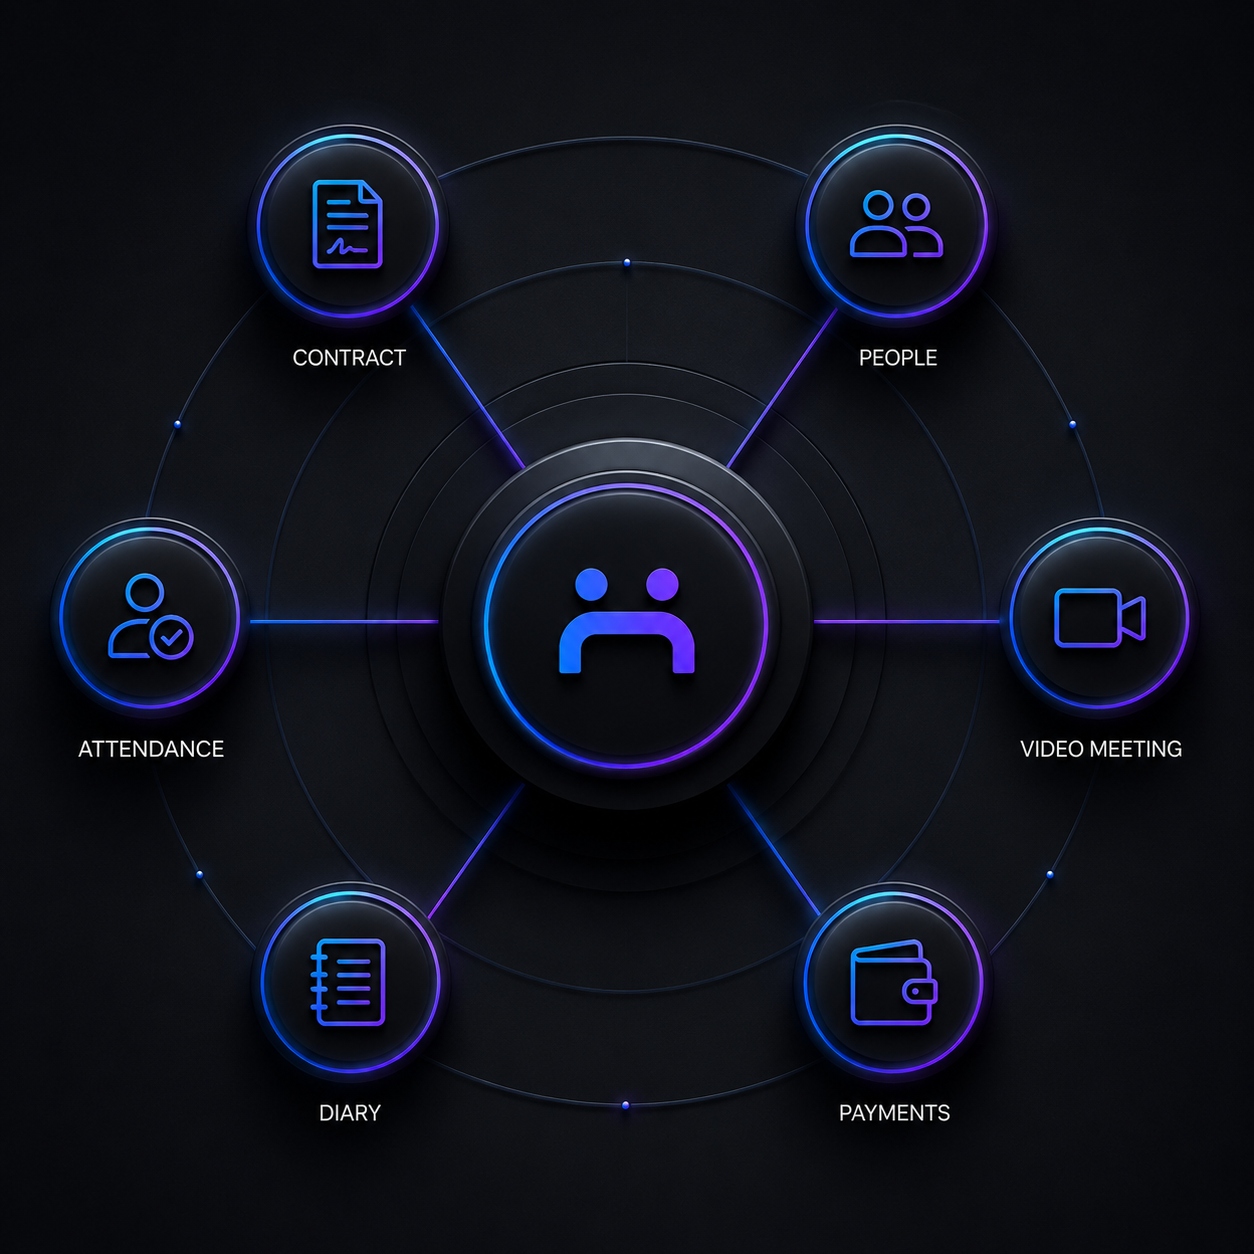
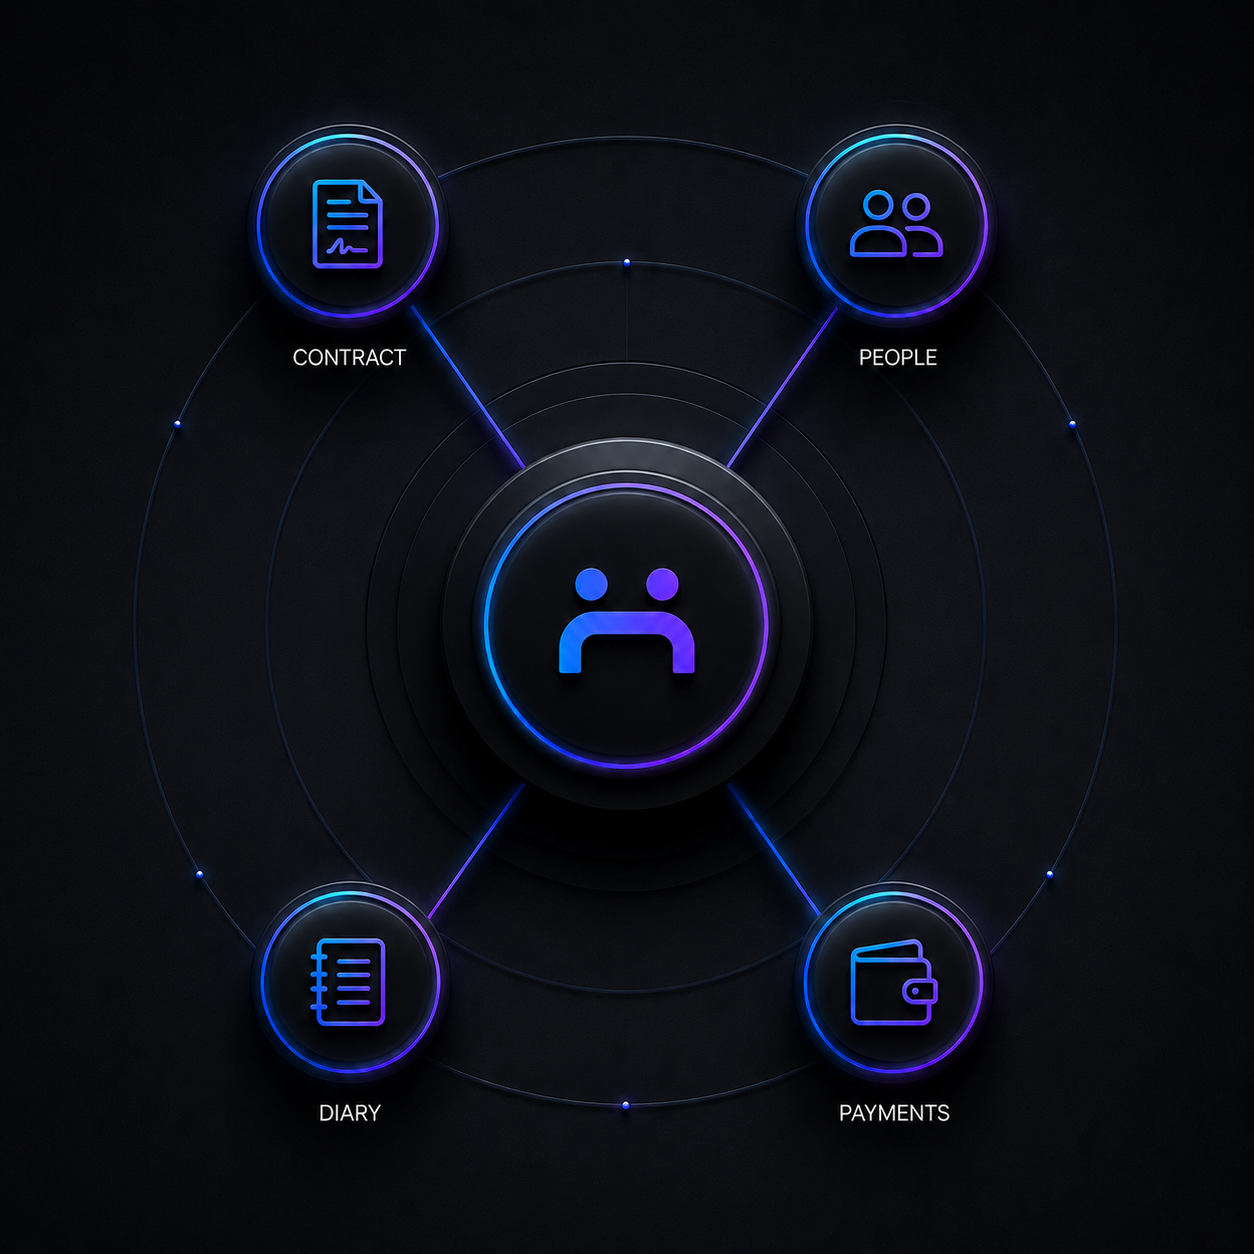
fixed changes foroctnatc suprot

diff --git a/src/app/shared/pages/contact-support/contact-support.component.ts b/src/app/shared/pages/contact-support/contact-support.component.ts
@@ -74,8 +74,10 @@ ngOnInit(): void {
 
   if (role === 'client') {
     this.bucketKey = BucketKey.ClientData;
+    this.currentUserRole.set('client');
   } else if (role === 'freelancer') {
     this.bucketKey = BucketKey.FreelancerData;
+    this.currentUserRole.set('freelancer');
   } else {
     throw new Error('Unsupported role for support ticket uploads');
   }
@@ -160,23 +162,12 @@ getStatusClass(status: string): string {
       label: 'Interview Phase',
       icon: 'bi-people-fill',
       description: 'Issues with schedule sync, expired meeting rooms, or chat linkages.',
+      applicableRoles: ['client', 'freelancer'],
       subcategories: [
-        {
-          label: 'Virtual interview room connection issue',
-          value: 'room-connection',
-        },
-        {
-          label: 'Schedule synchronization mismatch',
-          value: 'schedule-mismatch',
-        },
-        {
-          label: 'Client/Freelancer failed to attend',
-          value: 'no-show',
-        },
-        {
-          label: 'Interview chat link expired',
-          value: 'chat-expired',
-        },
+        { label: 'Virtual interview room connection issue', value: 'room-connection', applicableRoles: ['client', 'freelancer'] },
+        { label: 'Schedule synchronization mismatch', value: 'schedule-mismatch', applicableRoles: ['client', 'freelancer'] },
+        { label: 'Client/Freelancer failed to attend', value: 'no-show', applicableRoles: ['client', 'freelancer'] },
+        { label: 'Interview chat link expired', value: 'chat-expired', applicableRoles: ['client', 'freelancer'] },
       ],
     },
     {
@@ -184,23 +175,13 @@ getStatusClass(status: string): string {
       label: 'Application Phase',
       icon: 'bi-file-earmark-post',
       description: 'Trouble posting proposals, bid credit issues, or offer letter visibility.',
+      applicableRoles: ['client', 'freelancer'],
       subcategories: [
-        {
-          label: 'Proposal editing error',
-          value: 'proposal-error',
-        },
-        {
-          label: 'Bid token consumption error',
-          value: 'token-error',
-        },
-        {
-          label: 'Offer letter not visible',
-          value: 'offer-hidden',
-        },
-        {
-          label: 'Portfolio asset attachment issue',
-          value: 'portfolio-attachment',
-        },
+        { label: 'Proposal editing error', value: 'proposal-error', applicableRoles: ['freelancer'] },
+        { label: 'Bid token consumption error', value: 'token-error', applicableRoles: ['freelancer'] },
+        { label: 'Offer letter not visible', value: 'offer-hidden', applicableRoles: ['client', 'freelancer'] },
+        { label: 'Portfolio asset attachment issue', value: 'portfolio-attachment', applicableRoles: ['freelancer'] },
+        { label: 'Project posting error', value: 'project-posting-error', applicableRoles: ['client'] },
       ],
     },
     {
@@ -208,23 +189,12 @@ getStatusClass(status: string): string {
       label: 'Contract Management',
       icon: 'bi-file-earmark-lock2-fill',
       description: 'Errors during digital signature uploads or scope edits.',
+      applicableRoles: ['client', 'freelancer'],
       subcategories: [
-        {
-          label: 'Digital signature upload failure',
-          value: 'signature-upload',
-        },
-        {
-          label: 'Scope modification approval stuck',
-          value: 'scope-stuck',
-        },
-        {
-          label: 'Contract closure request dispute',
-          value: 'closure-dispute',
-        },
-        {
-          label: 'Contract diary tracking mismatch',
-          value: 'diary-mismatch',
-        },
+        { label: 'Digital signature upload failure', value: 'signature-upload', applicableRoles: ['client', 'freelancer'] },
+        { label: 'Scope modification approval stuck', value: 'scope-stuck', applicableRoles: ['client', 'freelancer'] },
+        { label: 'Contract closure request dispute', value: 'closure-dispute', applicableRoles: ['client', 'freelancer'] },
+        { label: 'Contract diary tracking mismatch', value: 'diary-mismatch', applicableRoles: ['client', 'freelancer'] },
       ],
     },
     {
@@ -232,23 +202,13 @@ getStatusClass(status: string): string {
       label: 'Payment & Escrow',
       icon: 'bi-credit-card-2-front-fill',
       description: 'Invoicing transaction failures, escrow holding delay, or refunds.',
+      applicableRoles: ['client', 'freelancer'],
       subcategories: [
-        {
-          label: 'Invoice processing failure',
-          value: 'invoice-failure',
-        },
-        {
-          label: 'Escrow release dispute',
-          value: 'escrow-dispute',
-        },
-        {
-          label: 'Refund transaction delay',
-          value: 'refund-delay',
-        },
-        {
-          label: 'Milestone funding error',
-          value: 'milestone-error',
-        },
+        { label: 'Invoice processing failure', value: 'invoice-failure', applicableRoles: ['client', 'freelancer'] },
+        { label: 'Escrow release dispute', value: 'escrow-dispute', applicableRoles: ['client', 'freelancer'] },
+        { label: 'Refund transaction delay', value: 'refund-delay', applicableRoles: ['client'] },
+        { label: 'Milestone funding error', value: 'milestone-error', applicableRoles: ['client'] },
+        { label: 'Withdrawal processing delay', value: 'withdrawal-delay', applicableRoles: ['freelancer'] },
       ],
     },
     {
@@ -256,33 +216,38 @@ getStatusClass(status: string): string {
       label: 'General & Account',
       icon: 'bi-gear-wide-connected',
       description: 'Login difficulties, 2FA authorization lockout, or settings delay.',
+      applicableRoles: ['client', 'freelancer'],
       subcategories: [
-        {
-          label: 'Account settings update issue',
-          value: 'settings-issue',
-        },
-        {
-          label: 'Notification preference delay',
-          value: 'notification-delay',
-        },
-        {
-          label: 'Two-factor authentication issue',
-          value: '2fa-issue',
-        },
-        {
-          label: 'General visual layout glitch',
-          value: 'layout-glitch',
-        },
+        { label: 'Account settings update issue', value: 'settings-issue', applicableRoles: ['client', 'freelancer'] },
+        { label: 'Notification preference delay', value: 'notification-delay', applicableRoles: ['client', 'freelancer'] },
+        { label: 'Two-factor authentication issue', value: '2fa-issue', applicableRoles: ['client', 'freelancer'] },
+        { label: 'General visual layout glitch', value: 'layout-glitch', applicableRoles: ['client', 'freelancer'] },
       ],
     },
   ];
 
+  currentUserRole = signal<'client' | 'freelancer'>('client');
+
+  filteredCategories = computed(() => {
+    const role = this.currentUserRole();
+    return this.categories
+      .filter(c => !c.applicableRoles || c.applicableRoles.includes(role))
+      .map(c => ({
+        ...c,
+        subcategories: c.subcategories.filter(sc => !sc.applicableRoles || sc.applicableRoles.includes(role))
+      }))
+      .filter(c => c.subcategories.length > 0);
+  });
+
+  activeCategoryId = signal<string>('');
+
   activeCategory = computed(() => {
-    const catId = this.supportForm.get('categoryId')?.value;
-    return this.categories.find((category) => category.id === catId);
+    const catId = this.activeCategoryId();
+    return this.filteredCategories().find((category) => category.id === catId);
   });
 
   selectCategory(categoryId: string): void {
+    this.activeCategoryId.set(categoryId);
     this.supportForm.patchValue({
       categoryId: categoryId,
       subcategoryValue: ''
@@ -340,6 +305,7 @@ getStatusClass(status: string): string {
 
   private resetForm(): void {
     this.supportForm.reset();
+    this.activeCategoryId.set('');
     this.uploadedAttachments.set([]);
     this.generatedTicketId.set('');
     this.uploadResetTrigger.update(val => val + 1);

diff --git a/src/app/shared/pages/contact-support/contact-support.component.html b/src/app/shared/pages/contact-support/contact-support.component.html
@@ -102,7 +102,7 @@
 
               <!-- GRID OF CATEGORY CARDS -->
               <div class="row g-4">
-                @for (cat of categories; track cat.id) {
+                @for (cat of filteredCategories(); track cat.id) {
                 <div class="col-12 col-sm-6 col-md-4">
                   <div class="category-card border-glass text-start cursor-pointer h-100"
                        [class.active]="supportForm.get('categoryId')?.value === cat.id"
@@ -124,8 +124,8 @@
             </section>
 
             <!-- STEP 2: DYNAMIC SUBCATEGORY SELECTOR (CONDITIONAL) -->
-            @if (supportForm.get('categoryId')?.value) {
-            <section class="wizard-step animate-fade-in pt-3 border-top-glass">
+            @if (activeCategoryId()) {
+            <section class="wizard-step animate-fade-in pt-3 border-top-glass position-relative" style="z-index: 10;">
               <div class="section-title-box d-flex align-items-center gap-2 mb-3.5">
                 <div class="section-icon-bullet d-flex align-items-center justify-content-center text-xs">2</div>
                 <h2 class="text-lg fw-bold text-white mb-0">Specify the Nature of Your Dispute</h2>
@@ -185,20 +185,14 @@
 </app-file-upload>
 
   @if (uploadedAttachments().length > 0) {
-    <div class="mt-4">
-      <div
-        class="border-glass rounded-3 p-3 mb-2"
-        *ngFor="let file of uploadedAttachments()">
-
-        <div class="d-flex justify-content-between align-items-center">
-          <span class="text-white text-sm">
-            {{ file.name }}
-          </span>
-
-          <i class="bi bi-check-circle-fill text-success"></i>
-        </div>
-
-      </div>
+    <div class="mt-4 attachments-grid d-flex flex-wrap gap-2">
+      @for (file of uploadedAttachments(); track file.url) {
+        <app-file-preview
+          [url]="file.url"
+          [fileName]="file.name"
+          [disabled]="true">
+        </app-file-preview>
+      }
     </div>
   }
 </section>

diff --git a/src/app/core/model/support-request.model.ts b/src/app/core/model/support-request.model.ts
@@ -69,6 +69,7 @@ export interface UploadedFileEvent {
 export interface Subcategory {
   label: string;
   value: string;
+  applicableRoles?: ('client' | 'freelancer')[];
 }
 
 export interface SupportCategory {
@@ -77,4 +78,5 @@ export interface SupportCategory {
   icon: string;
   description: string;
   subcategories: Subcategory[];
+  applicableRoles?: ('client' | 'freelancer')[];
 }